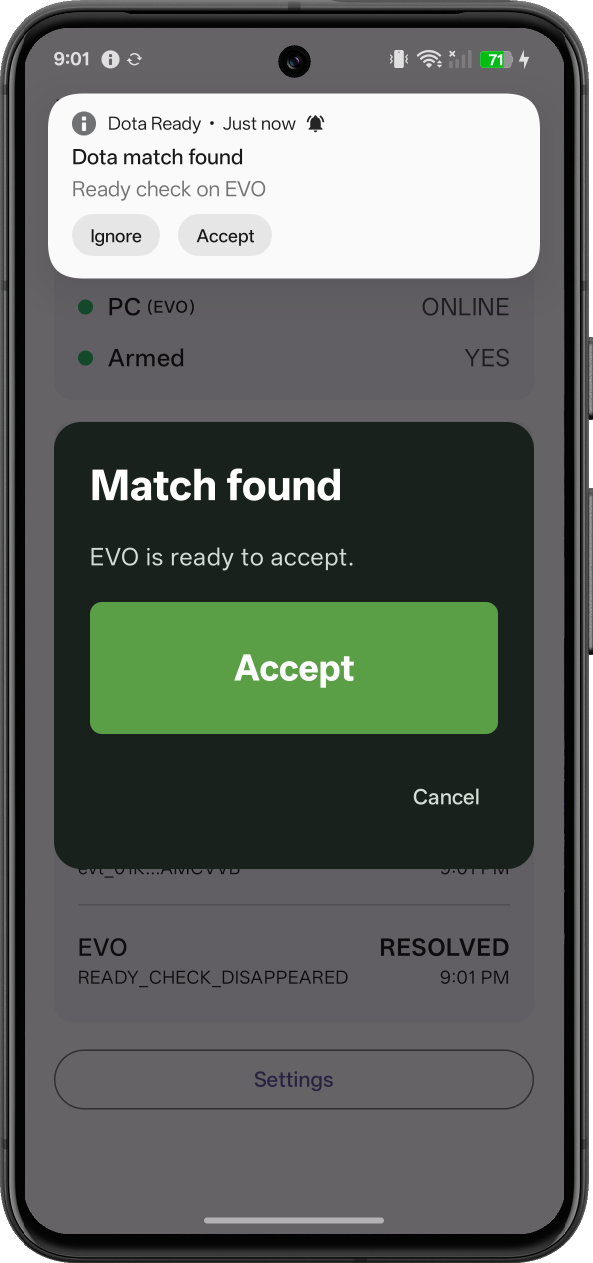
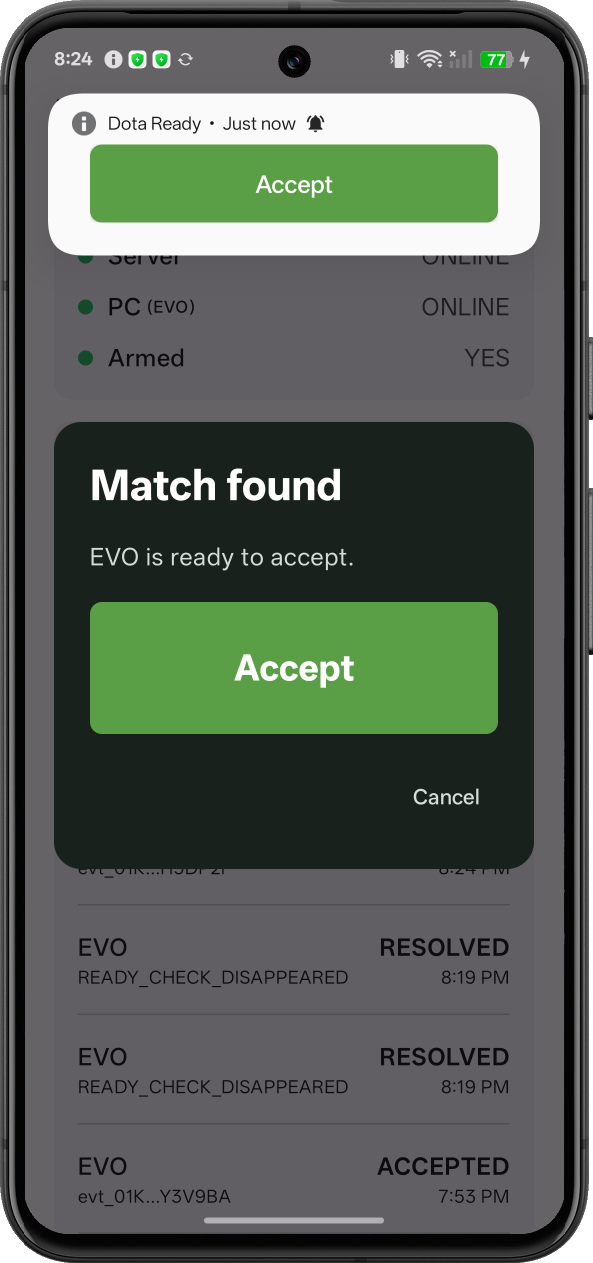
chore: update notification/match-found screenshots and alt text
Reflects the new no-Ignore, large-Accept-button notification UI.

diff --git a/index.html b/index.html
@@ -106,7 +106,7 @@
             <h3>Get notified</h3>
             <p>A ready check appears — your phone buzzes with a push notification immediately.</p>
             <img class="step-shot" src="assets/screenshots/en/app-notification.png"
-                 alt="Phone notification showing a Dota match found, with Ignore and Accept actions">
+                 alt="Phone notification showing a Dota match found, with a large Accept action">
           </div>
         </li>
         <li>
@@ -119,10 +119,9 @@
           </div>
         </li>
       </ol>
-      <p class="steps-note">Tapping <strong>Ignore</strong> on the notification or
-        <strong>Cancel</strong> in the app only dismisses that notification on your phone — it does
-        not decline or cancel the actual Dota 2 match. If you don't act, the ready check just runs
-        its normal course in-game.</p>
+      <p class="steps-note">Tapping <strong>Cancel</strong> in the app only dismisses that
+        notification on your phone — it does not decline or cancel the actual Dota 2 match. If
+        you don't act, the ready check just runs its normal course in-game.</p>
     </section>
 
     <section id="background" class="section section-callout">
@@ -209,10 +208,10 @@
             the app.</p>
         </details>
         <details>
-          <summary>Does Ignore or Cancel decline the match?</summary>
-          <p>No. Ignore (on the notification) and Cancel (in the app) only dismiss that
-            notification on your phone — they don't send anything to Dota 2 or cancel the actual
-            ready check. The match itself is unaffected either way.</p>
+          <summary>Does dismissing the notification or tapping Cancel decline the match?</summary>
+          <p>No. Swiping away the notification and tapping <strong>Cancel</strong> in the app only
+            dismiss that notification on your phone — they don't send anything to Dota 2 or
+            cancel the actual ready check. The match itself is unaffected either way.</p>
         </details>
         <details>
           <summary>What's free vs. paid?</summary>
